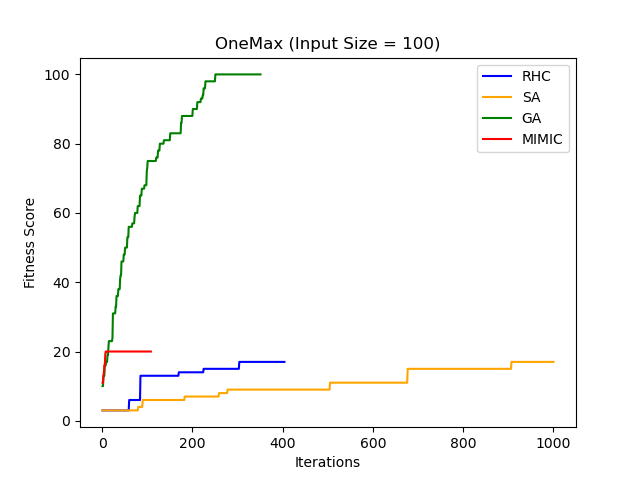
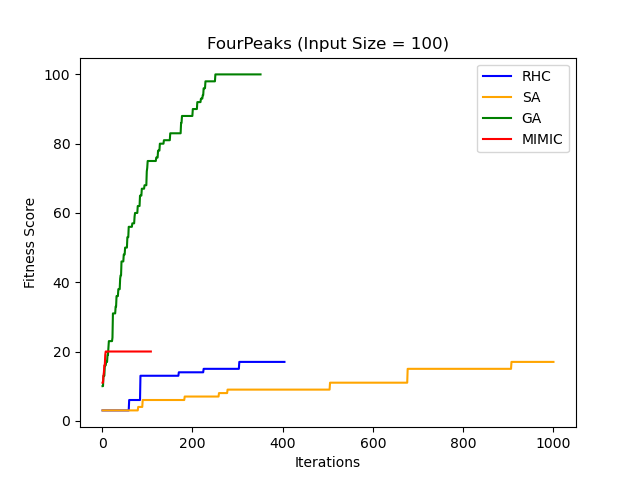
finish hw2

Changed region(s): [[0.3125, 0.0625, 0.6875, 0.125]]

diff --git a/assignment2/main.py b/assignment2/main.py
@@ -95,7 +95,7 @@ def flip_flop():
     ga = []
     mim = []
 
-    input_sizes = [50]
+    input_sizes = [100]
 
     for i in input_sizes:
         state = np.array([np.random.randint(0, 2) for i in range(i)])
@@ -117,19 +117,19 @@ def flip_flop():
         mim.append((best_fitness, fitness_curve, time))
 
     plot_data([i+1 for i in range(len(rhc[0][1]))], rhc[0][1], 
-    title="FourPeaks (Input Size = "+str(len(state))+")", 
+    title="Flip Flop (Input Size = "+str(len(state))+")", 
     x_label="Iterations", y_label="Fitness Score", color="blue", label='RHC')
     
     plot_data([i+1 for i in range(len(sa[0][1]))], sa[0][1], 
-        title="FourPeaks (Input Size = "+str(len(state))+")", 
+        title="Flip Flop (Input Size = "+str(len(state))+")", 
         x_label="Iterations", y_label="Fitness Score", color="orange", label='SA')
 
     plot_data([i+1 for i in range(len(ga[0][1]))], ga[0][1], 
-        title="FourPeaks (Input Size = "+str(len(state))+")", 
+        title="Flip Flop (Input Size = "+str(len(state))+")", 
         x_label="Iterations", y_label="Fitness Score", color="green", label='GA')
     
     plot_data([i+1 for i in range(len(mim[0][1]))], mim[0][1], 
-        title="OneMax (Input Size = "+str(len(state))+")", 
+        title="Flip Flop (Input Size = "+str(len(state))+")", 
         x_label="Iterations", y_label="Fitness Score", color="red", label='MIMIC')
 
 
@@ -180,7 +180,7 @@ def four_peaks():
         x_label="Iterations", y_label="Fitness Score", color="green", label='GA')
     
     plot_data([i+1 for i in range(len(mim[0][1]))], mim[0][1], 
-        title="OneMax (Input Size = "+str(len(state))+")", 
+        title="FourPeaks (Input Size = "+str(len(state))+")", 
         x_label="Iterations", y_label="Fitness Score", color="red", label='MIMIC')
 
 
@@ -300,6 +300,33 @@ def neural_network():
                                                         random_state=RANDOM_STATE)
 
 
+    algorithm = 'gradient_descent'
+    gd = mlr.NeuralNetwork(hidden_nodes = [10,10], activation = 'relu', \
+                                 algorithm = algorithm, max_iters=5000, \
+                                 bias = True, is_classifier = True, learning_rate = 0.001, \
+                                 early_stopping = False, clip_max = 1, max_attempts = 100, \
+                                 random_state = RANDOM_STATE, curve=True)
+    
+    
+    print('Backpropagation')
+    start_time = time.time() 
+    gd.fit(x_train, y_train)
+    end_time = time.time()
+    total_time = end_time - start_time
+    print("Fit Time", total_time)
+    
+    y_train_pred = gd.predict(x_train)
+    y_train_accuracy = accuracy_score(y_train, y_train_pred)
+    print('Train Score:', y_train_accuracy)
+    y_test_pred = gd.predict(x_test)
+    y_test_accuracy = accuracy_score(y_test, y_test_pred)
+    print('Validation Score:', y_test_accuracy)
+
+
+    plot_data([i+1 for i in range(len(gd.fitness_curve))], gd.fitness_curve*-1, 
+        title="Neural Network Fitness", 
+        x_label="Iterations", y_label="Log Loss", color="red", label='Backprop')
+
 
 
     algorithm = 'random_hill_climb'
@@ -311,10 +338,21 @@ def neural_network():
     
     
 
+    print('Random Hill Climbing')
+    start_time = time.time() 
     rhc.fit(x_train, y_train)
+    end_time = time.time()
+    total_time = end_time - start_time
+    print("Fit Time", total_time)
+
     y_train_pred = rhc.predict(x_train)
     y_train_accuracy = accuracy_score(y_train, y_train_pred)
-    print(y_train_accuracy)
+    
+    print('Train Score', y_train_accuracy)
+    y_test_pred = rhc.predict(x_test)
+    y_test_accuracy = accuracy_score(y_test, y_test_pred)
+    print('Validation Score:', y_test_accuracy)
+
     plot_data([i+1 for i in range(len(rhc.fitness_curve))], rhc.fitness_curve, 
         title="Neural Network Fitness", 
         x_label="Iterations", y_label="Log Loss", color="blue", label='RHC')
@@ -331,11 +369,20 @@ def neural_network():
                                  random_state = RANDOM_STATE, curve=True)
     
     
-
+    print('Simulated Annealing')
+    start_time = time.time() 
     sa.fit(x_train, y_train)
+    end_time = time.time()
+    total_time = end_time - start_time
+    print("Fit Time", total_time)
+
     y_train_pred = sa.predict(x_train)
     y_train_accuracy = accuracy_score(y_train, y_train_pred)
-    print(y_train_accuracy)
+    
+    print('Train Score', y_train_accuracy)
+    y_test_pred = sa.predict(x_test)
+    y_test_accuracy = accuracy_score(y_test, y_test_pred)
+    print('Validation Score:', y_test_accuracy)
 
     plot_data([i+1 for i in range(len(sa.fitness_curve))], sa.fitness_curve, 
         title="Neural Network Fitness", 
@@ -343,28 +390,35 @@ def neural_network():
 
 
 
-
-
-
-
-
     algorithm = 'genetic_alg'
     ga = mlr.NeuralNetwork(hidden_nodes = [10,10], activation = 'relu', \
-                                 algorithm = algorithm, max_iters=1000, \
+                                 algorithm = algorithm, max_iters=5000, \
                                  bias = True, is_classifier = True, learning_rate = 0.1, \
-                                 early_stopping = False, clip_max = 1, max_attempts = 50, \
+                                 early_stopping = False, clip_max = 1, max_attempts = 100, \
                                  random_state = RANDOM_STATE, curve=True)
     
     
-
+    print('Genetic Algorithms')
+    start_time = time.time() 
     ga.fit(x_train, y_train)
+    end_time = time.time()
+    total_time = end_time - start_time
+    print("Fit Time", total_time)
+
     y_train_pred = ga.predict(x_train)
     y_train_accuracy = accuracy_score(y_train, y_train_pred)
-    print(y_train_accuracy)
+    
+    print('Train Score', y_train_accuracy)
+    y_test_pred = ga.predict(x_test)
+    y_test_accuracy = accuracy_score(y_test, y_test_pred)
+    print('Validation Score:', y_test_accuracy)
 
     plot_data([i+1 for i in range(len(ga.fitness_curve))], ga.fitness_curve, 
         title="Neural Network Fitness", 
         x_label="Iterations", y_label="Log Loss", color="green", label='GA')
+
+
+
 
 
     plt.savefig('output/'+"Neural Network Fitness"+'.png')
@@ -376,11 +430,194 @@ def neural_network():
     #     (500,1000,1500,2000,2500,3000,3500,4000,4500,5000))
 
 
+def neural_network_tune_rhc():
+    features, labels = load_data('dataset1', 'train')
+    x_train, x_test, y_train, y_test = train_test_split(features, labels, test_size=0.2,
+                                                    random_state=RANDOM_STATE)
+
+    restarts = [10, 20, 30, 40, 50]
+    for i in restarts:
+        algorithm = 'random_hill_climb'
+        rhc = mlr.NeuralNetwork(hidden_nodes = [10,10], activation = 'relu', \
+                                    algorithm = algorithm, max_iters=5000, restarts=i, \
+                                    bias = True, is_classifier = True, learning_rate = 0.1, \
+                                    early_stopping = True, clip_max = 1, max_attempts = 100, \
+                                    random_state = RANDOM_STATE, curve=True)
+        
+        
+        print('Random Hill Climbing Restarts=', i)
+        start_time = time.time() 
+        rhc.fit(x_train, y_train)
+        end_time = time.time()
+        total_time = end_time - start_time
+        print("Fit Time", total_time)
+
+        y_train_pred = rhc.predict(x_train)
+        y_train_accuracy = accuracy_score(y_train, y_train_pred)
+        
+        print('Train Score', y_train_accuracy)
+        y_test_pred = rhc.predict(x_test)
+        y_test_accuracy = accuracy_score(y_test, y_test_pred)
+        print('Validation Score:', y_test_accuracy)
+
+
+
+def neural_network_tune_sa():
+    features, labels = load_data('dataset1', 'train')
+    x_train, x_test, y_train, y_test = train_test_split(features, labels, test_size=0.2,
+                                                    random_state=RANDOM_STATE)
+
+    decay = [
+        mlr.GeomDecay(init_temp=1.0, decay=0.99, min_temp=0.001),
+        mlr.GeomDecay(init_temp=1.0, decay=0.8, min_temp=0.001),
+        mlr.GeomDecay(init_temp=1.0, decay=0.6, min_temp=0.001),
+        mlr.GeomDecay(init_temp=1.0, decay=0.4, min_temp=0.001),
+        mlr.GeomDecay(init_temp=1.0, decay=0.2, min_temp=0.001)
+    ]
+
+    for i in decay:
+        algorithm = 'simulated_annealing'
+        sa = mlr.NeuralNetwork(hidden_nodes = [10,10], activation = 'relu', \
+                                    algorithm = algorithm, max_iters=5000, schedule=i, \
+                                    bias = True, is_classifier = True, learning_rate = 0.1, \
+                                    early_stopping = True, clip_max = 1, max_attempts = 100, \
+                                    random_state = RANDOM_STATE, curve=True)
+        
+        
+        print('Simulated Annealing Decay Rate=', i)
+        start_time = time.time() 
+        sa.fit(x_train, y_train)
+        end_time = time.time()
+        total_time = end_time - start_time
+        print("Fit Time", total_time)
+
+        y_train_pred = sa.predict(x_train)
+        y_train_accuracy = accuracy_score(y_train, y_train_pred)
+        
+        print('Train Score', y_train_accuracy)
+        y_test_pred = sa.predict(x_test)
+        y_test_accuracy = accuracy_score(y_test, y_test_pred)
+        print('Validation Score:', y_test_accuracy)
+
+
+def neural_network_tune_ga():
+    features, labels = load_data('dataset1', 'train')
+    x_train, x_test, y_train, y_test = train_test_split(features, labels, test_size=0.2,
+                                                    random_state=RANDOM_STATE)
+
+    population = [
+        50,
+        100,
+        200,
+        500,
+        1000
+    ]
+
+    for i in population:
+        algorithm = 'genetic_alg'
+        ga = mlr.NeuralNetwork(hidden_nodes = [10,10], activation = 'relu', \
+                                    algorithm = algorithm, max_iters=1000, pop_size = i,  \
+                                    bias = True, is_classifier = True, learning_rate = 0.1, \
+                                    early_stopping = True, clip_max = 1, max_attempts = 100, \
+                                    random_state = RANDOM_STATE, curve=True)
+        
+        
+        print('Genetic Algorithm Population Size =', i)
+        start_time = time.time() 
+        ga.fit(x_train, y_train)
+        end_time = time.time()
+        total_time = end_time - start_time
+        print("Fit Time", total_time)
+
+        y_train_pred = ga.predict(x_train)
+        y_train_accuracy = accuracy_score(y_train, y_train_pred)
+        
+        print('Train Score', y_train_accuracy)
+        y_test_pred = ga.predict(x_test)
+        y_test_accuracy = accuracy_score(y_test, y_test_pred)
+        print('Validation Score:', y_test_accuracy)
+
+
+
+def neural_network_final_results():
+    x_train, y_train = load_data('dataset1', 'train')
+    x_test, y_test = load_data('dataset1', 'test')
+
+    algorithm = 'random_hill_climb'
+    rhc = mlr.NeuralNetwork(hidden_nodes = [10,10], activation = 'relu', \
+                                 algorithm = algorithm, max_iters=5000, restarts=5, \
+                                 bias = True, is_classifier = True, learning_rate = 0.1, \
+                                 early_stopping = True, clip_max = 1, max_attempts = 100, \
+                                 random_state = RANDOM_STATE, curve=True)
+    
+    
+
+    print('Random Hill Climbing')
+    start_time = time.time() 
+    rhc.fit(x_train, y_train)
+    end_time = time.time()
+    total_time = end_time - start_time
+    print("Fit Time", total_time)
+
+    y_pred = rhc.predict(x_test)
+    test_accuracy = accuracy_score(y_test, y_pred)
+    print('Accuracy', test_accuracy)
+
+    
+    
+    algorithm = 'simulated_annealing'
+    sa = mlr.NeuralNetwork(hidden_nodes = [10,10], activation = 'relu', \
+                                 algorithm = algorithm, max_iters=5000, \
+                                 bias = True, is_classifier = True, learning_rate = 0.1, \
+                                 early_stopping = True, clip_max = 1, max_attempts = 100, \
+                                 random_state = RANDOM_STATE, curve=True)
+    
+    
+
+    print('Simulated Annealing')
+    start_time = time.time() 
+    sa.fit(x_train, y_train)
+    end_time = time.time()
+    total_time = end_time - start_time
+    print("Fit Time", total_time)
+
+    y_pred = sa.predict(x_test)
+    test_accuracy = accuracy_score(y_test, y_pred)
+    print('Accuracy', test_accuracy)
+
+    algorithm = 'genetic_alg'
+    ga = mlr.NeuralNetwork(hidden_nodes = [10,10], activation = 'relu', \
+                                 algorithm = algorithm, max_iters=1000, pop_size = 500, \
+                                 bias = True, is_classifier = True, learning_rate = 0.1, \
+                                 early_stopping = True, clip_max = 1, max_attempts = 100, \
+                                 random_state = RANDOM_STATE, curve=True)
+    
+    
+
+    print('Genetic Algorithm')
+    start_time = time.time() 
+    ga.fit(x_train, y_train)
+    end_time = time.time()
+    total_time = end_time - start_time
+    print("Fit Time", total_time)
+
+    y_pred = ga.predict(x_test)
+    test_accuracy = accuracy_score(y_test, y_pred)
+    print('Accuracy', test_accuracy)
+
+
+
+
+
 if __name__ == "__main__":    
-    # one_max()
-    # four_peaks() 
+    one_max()
+    four_peaks() 
     flip_flop()
-    # neural_network()
+    neural_network()
+    neural_network_tune_rhc()
+    neural_network_tune_sa()
+    neural_network_tune_ga()
+    neural_network_final_results()
 
     
 
